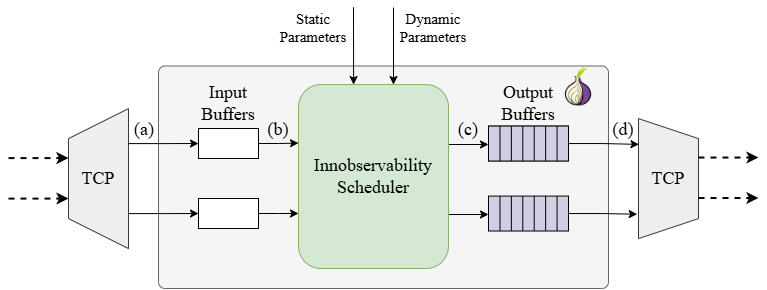
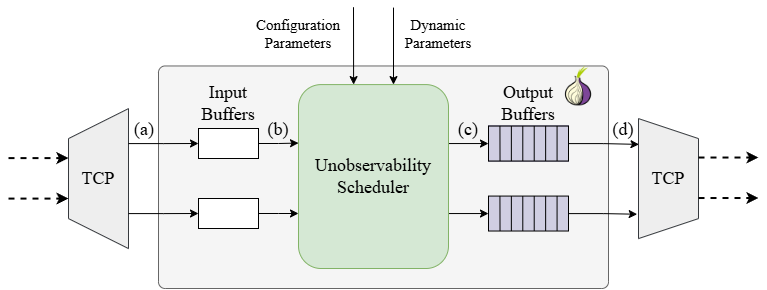
:hammer: WIP

diff --git a/Chapters/chapter3.tex b/Chapters/chapter3.tex
@@ -51,7 +51,7 @@ Our approach aims to develop a differential private mechanism, called \textit{Di
     \includegraphics[width=0.8\textwidth]{Chapters/Figures/Fig2_dp.png}
     \caption{Enhanced Tor Relay with Differential Privacy  Scheduler Component}\label{fig:our_system_model}
 \end{figure}
-Figure~\ref{fig:our_system_model} illustrates the enhanced Tor Relay internal architecture with our Innobservability Scheduler Component. This component is responsible for adding noise and control to the traffic flow, focusing on improving the circuit queue scheduler algorithm. This component has a variable levels of performance and privacy, according to the parameters set by the relay or dynamically calculated.   
+Figure~\ref{fig:our_system_model} illustrates the enhanced Tor Relay internal architecture with our Unobservability Scheduler Component. This component is responsible for adding noise and control to the traffic flow, focusing on improving the circuit queue scheduler algorithm. This component has a variable levels of performance and privacy, according to the parameters set by the relay or dynamically calculated.   
 
 \subsection{Differential Privacy Scheduler}\label{subsec:differential_privacy_approach}
 
@@ -78,38 +78,42 @@ This approach aims to improve Tor system by providing greater guarantees and for
 
 \subsection{The MIRACE Approach}\label{subsec:mirace_approach}
 
-On the other hand, we also propose another approach for the implementation of our Differential Private Component, by extending the MIRACE work. This way, we believe that merging both path splitting and differential privacy mechanisms can provide a better privacy. This work is based on another NOVA LINCS work called TorKameleon~\cite{TorKameleon}, which is developed in Go language. The MIRACE approach consists of implementing the Innobservability Scheduler Compenent in each Relay Node used in the MIRACE network. Additionally, we aim to augment the scheduler with a formal and differential private mechanisms to levarage the MIRACE multi-path algorithm. We believe that combining traffic splitting and multipath multi-encapsulation techniques from MIRACE with the differential privacy mechanisms from our work can provide a better privacy to Tor users.
+On the other hand, we also propose another approach for the implementation of our Differential Private Component, by extending the MIRACE work. This way, we believe that merging both path splitting and differential privacy mechanisms can provide a better privacy. This work is based on another NOVA LINCS work called TorKameleon~\cite{TorKameleon}, which is developed in Go language. The MIRACE approach consists of implementing the Unobservability Scheduler Compenent in each Relay Node used in the MIRACE network. Additionally, we aim to augment the scheduler with a formal and differential private mechanisms to levarage the MIRACE multi-path algorithm. We believe that combining traffic splitting and multipath multi-encapsulation techniques from MIRACE with the differential privacy mechanisms from our work can provide a better privacy to Tor users.
 This approach is the alternative to the Tor approach, considering that Tor source code may be more complex and harder to implement in the time frame of this work. On the other hand, the MIRACE approach uses Golang which is a simpler language and both MIRACE and TorKameleon authors represent a great support to our work.
 
 \section{Validation}\label{sec:validation}
 
-In order to validate our solution and present a trustworthy conclusion of wether our work is useful to the current Anonymity Networks State-of-the-Art or it can be ruled out for future work and reference, we will present two main types of validation: Performance Measurements and Innobservability Measurements. 
+The main goal of this work is to provide a viable solution to the current privacy issues in Anonymity Networks, such as Tor, by using Differntial Privacy mechanisms to provide formal privacy guarantees whilst maintaining reasonable performance levels. Using DP algorithms, we aim to provide a solution that can decrease the efficiency of orrelation attacks and website fingerprinting.
+In order to validate our solution and present a trustworthy conclusion of wether our work is useful to the current Anonymity Networks State-of-the-Art or it can be ruled out for future work and reference, we will present two main types of validation: Performance Measurements and Unobservability Measurements. To execute our validation, we will use Shadow~\cite*{Shadow, Shadow2}, which is a specific experimnetation tool that allows us to test and simulate the Tor network in a simulated environment, leading to a more controlled but easier prototype implementation and validation. 
 
-\subsection{Performance Measurements}\label{subsec:performance_measurements}
+\subsection{Unobservability Measurements}\label{subsec:unobservability_measurements}
 
-The Performance Measurements aim to provide a extensive and detailed analysis of the performance of our solution. In order to achieve this, we will consider various metrics, such as latency and throughput. We will also consider different scenarios where we can stress our solution in different ways, leading to a more detailed and broad analysis of the performance of our solution. We will have 5 main scenarios:
-\begin{itemize}
-  \item \textbf{iPerf}: This tool will be used to measure some critical metrics, such as latency and throughput, but also the jitter and packet loss that our solution may introduce.
-  \item \textbf{Web Browsing}: In this scenario, we consider that it is important to evaluate perfomnace measurements over a scenario where high performance is required, such as web browsing. This scenario will have a high number of small sized requests and responses. 
-  \item \textbf{File transfers}: This scenario will simulate the transfer of large files over the network to evaluate throughput and latency under sustained, high-bandwidth usage. It will help identify how the scheduler handles prolonged data flows and ensures privacy without significantly impacting performance.  
-  \item \textbf{Video Conference Meeting}: This scenario will test real-time communication with strict latency and jitter requirements. It will assess how the scheduler performs under conditions where low delay is crucial for maintaining audio and video quality.  
-  \item \textbf{Streaming}: Streaming scenarios will evaluate continuous data delivery performance, focusing on how well the scheduler maintains a balance between bandwidth usage and differential privacy guarantees, especially under varying network conditions and sustained traffic.
-\end{itemize}
-
-With these scenarios and metrics, we believe that we can provide a comprehensive analysis of the performance of our solution, which will help us to understand the trade-offs between privacy and performance. The aim is to demosntrate that our solution can provide a reasonable level of privacy without significantly impacting the performance.
-
-\subsection{Innobservability Measurements}\label{subsec:innobservability_measurements}
-
+Unobservability is the main goal of our work. We aim to prove that Differential Privacy mechanisms can provide strong privacy guarantees and that its a real-world solution
 Even though performance is a critical measurement, we believe that the privacy guarantees are the most important aspect of our solution. To do so, we will consider Website Fingerprinting as the main attacker technique over our system. To provide strong evidence of the privacy guarantees of our solution, we will consider the following machine-learning models for website fingerprinting:
 \begin{itemize}
-  \item Attack 1
-  \item Attack 2
-  \item TPR
+  \item DeppCoFFEA
+  \item TorMarker
+  \item TirDeanon
   \item TNR
 \end{itemize}
 
 In addition, we want to formally prove the differential private mechanisms that we aim to provide
 
+
+\subsection{Performance Measurements}\label{subsec:performance_measurements}
+
+Even though the main goal of our work focus on privacy and the effectiveness of Differential Privacy, we consider performance to be the key to the success of our solution, which can be the difference between a viable solution, useful in real-world applications, and a theoretical solution which works but does not provide a real-world application due to low performance.
+This way, the Performance Measurements aim to provide a extensive and detailed analysis of the performance of our solution. In order to achieve this, we will consider various metrics, such as latency and throughput. We will also consider different scenarios where we can stress our solution in different ways, leading to a more detailed and broad analysis of the performance of our solution. We will have 5 main scenarios:
+\begin{itemize}
+  \item\textbf{iPerf:} This tool will be used to measure some critical metrics, such as latency and throughput, but also the jitter and packet loss that our solution may introduce.
+  \item\textbf{Web Browsing: } In this scenario, we consider that it is important to evaluate perfomnace measurements over a scenario where high performance is required, such as web browsing. This scenario will have a high number of small sized requests and responses. 
+  \item\textbf{File transfers: } This scenario will simulate the transfer of large files over the network to evaluate throughput and latency under sustained, high-bandwidth usage. It will help identify how the scheduler handles prolonged data flows and ensures privacy without significantly impacting performance.  
+  \item\textbf{Video Conference Meeting: } This scenario will test real-time communication with strict latency and jitter requirements. It will assess how the scheduler performs under conditions where low delay is crucial for maintaining audio and video quality.  
+  \item\textbf{Streaming: } Streaming scenarios will evaluate continuous data delivery performance, focusing on how well the scheduler maintains a balance between bandwidth usage and differential privacy guarantees, especially under varying network conditions and sustained traffic.
+\end{itemize}
+
+With these scenarios and metrics, we believe that we can provide a comprehensive analysis of the performance of our solution, which will help us to understand the trade-offs between privacy and performance. The aim is to demosntrate that our solution can provide a reasonable level of privacy without significantly impacting the performance.
+
 \section{Summary}\label{sec:elaboration_summary}
 
-We propose to implement a Innobservability Scheduler Component, based on the Tor Scheduler and considering some implementations over it, like KIST and EWMA, but aiming to provide greater and better privacy guarantees to users. By providing a formal and differential private mechanism over Relay Nodes, we intend to protect the privacy of users, whilst maintaining feasable performance levels. We will consider two main approaches from the start: the Tor Approach and the MIRACE Approach. The Tor Approach consists of extending the Tor Scheduler with our Differential Privacy Scheduler Component, whilst the MIRACE Approach consists of extending the MIRACE Relay Nodes with our Differential Privacy Scheduler Component. To validate the solution, we will consider two types of measurements: Performance and Innobservability. The Performance Measurements aim to provide a comprehensive analysis of the performance of our solution, considering different scenarios and metrics, such as latency and throughput. The Innobservability Measurements aim to provide a comprehensive analysis of the privacy guarantees of our solution, considering different scenarios and metrics, such as website fingerprinting and correlation attacks. We believe that by providing a comprehensive analysis of the performance and privacy guarantees of our solution, we can demonstrate that our solution can provide a reasonable level of privacy without significantly impacting the performance.
+We propose to implement a Unobservability Scheduler Component, based on the Tor Scheduler and considering some implementations over it, like KIST and EWMA, but aiming to provide greater and better privacy guarantees to users. By providing a formal and differential private mechanism over Relay Nodes, we intend to protect the privacy of users, whilst maintaining feasable performance levels. We will consider two main approaches from the start: the Tor Approach and the MIRACE Approach. The Tor Approach consists of extending the Tor Scheduler with our Differential Privacy Scheduler Component, whilst the MIRACE Approach consists of extending the MIRACE Relay Nodes with our Differential Privacy Scheduler Component. To validate the solution, we will consider two types of measurements: Performance and Unobservability. The Performance Measurements aim to provide a comprehensive analysis of the performance of our solution, considering different scenarios and metrics, such as latency and throughput. The Unobservability Measurements aim to provide a comprehensive analysis of the privacy guarantees of our solution, considering different scenarios and metrics, such as website fingerprinting and correlation attacks. We believe that by providing a comprehensive analysis of the performance and privacy guarantees of our solution, we can demonstrate that our solution can provide a reasonable level of privacy without significantly impacting the performance.

diff --git a/Chapters/chapter4.tex b/Chapters/chapter4.tex
@@ -8,5 +8,28 @@
 
 \typeout{NT FILE chapter4.tex}%
 
-\chapter{Workplan}
-\label{cha:workplan}
+\chapter{Workplan}\label{cha:workplan}
+
+To provide a clear overwiew of thr workplan, we create a Gantt chart, displayed in Figure \ref{fig:gantt}, and a table with the tasks and their respective description and tasks dependency. Our workplan is desing for an estimated effort similar to the compleplated work for a Master Thesis, corresponding to 30 ECTS, meaning that we plan to spend 840 hours of work (30 ECTS * 28 hours/ECTS), for which we account for the possibility of a margin of error of 10\% in the total time. 
+
+\section{Protopype Development}
+To mitigate the risk of not being able to complete the work in the estimated time, we divided our solution into phases:
+\begin{itemize}
+    \item \textbf{Phase 1:} Firsly, we will implement the prototype of the \textit{Unobservability Scheduler} with basic functionalities and a randomized response-based mechanisms. In this phase, we prosume to spend a reasonable amount of time setting up and understading Tor's or MIRACE's codebase, depending on the approach we take. With this basic differntial private scheduler, we will already be able to test the basic functionalities of the system, and we will be able to evaluate the performance of the system in terms of privacy and utility. We also want to provide detailed evidence of the impact of each parameter. This way, this prototype will work as reference of the system's performance and will be used to compare with the final version of the system. Therefore, we will have to develop our benchmarking tools and extract data from this prototype.
+    \item \textbf{Phase 2:} In this phase, we will extend Phase 1 Protopype and add all necessary parameters. We will start by implementing the static paramenters, as we consider to be easier to implement and less probable to generate unexpected results, due to its static nature. After that, we will implement the dynamic parameters, which will require more time to implement and test. We will also implement the benchmarking tools and extract data from this prototype. Finally, we will compare the results of the two prototypes and evaluate the impact of each parameter in the system's performance and what values do we consider to be the best for each parameter.
+\end{itemize}
+
+Upon completing these development phases, particular elements of the solution will be subject to thorough analysis and meticulous implementation:
+\begin{itemize}
+    \item \textbf{Differential Privacy: } The main focus of this work is to provide a solution that is able to provide formal privacy guarantees to anonymization network's users. Formal privacy guarantees are a important aspect of our system, as it will provide a clear understanding of the privacy guarantees that users have when using our system. Therefore, we will have to implement the differential privacy mechanisms and evaluate its impact in the system's performance.
+    \item \textbf{Flexible Configuration \& Parameterization: } Another important aspect of the work we want to develop is the ability to provide flexible behaviour to the system. This flexibility can be divided into two main subjects: the users, and the correspondent needs and preferences, are one source of flexibility and we consider important to provide a system that can be easily configured by the user and fit his needs. On the other hand, the system itself should be able to adapt to the real-time conditions that it is subject to. For example, the system should be able to adapt to the network's jitter and latency, and adapt the noise added to the messages accordingly, by modifying the privacy parameters. Therefore, our system will have a flexible configuration and parameterization, and a vast number of parameters lead to a vast range of tests that we will have to perform.  
+\end{itemize}
+
+
+
+\begin{figure}
+    \centering
+    \includegraphics[width=\textwidth]{Chapters/Figures/Gantt.png}
+    \caption{Gantt chart of the workplan}
+    \label{fig:gantt}
+\end{figure}

diff --git a/Config/3_cover.tex b/Config/3_cover.tex
@@ -19,11 +19,11 @@
 %                                 (if omitted defaults to main title without line breaks)
 %-------------------------------------------------------------------
 %         You may use "\\" to force line breaks
-\nttitle(main,en){Use of Differential Privacy for Unobservable Privacy-Preserved Communication}%
+\nttitle(main,en){The Unobservability Scheduler}%
 \nttitle(main,pt){Um Título de Tese Longo\\e com uma Mudança de Linha Forçada}%
 
 %         You may use "\\" to force line breaks
-\nttitle(sub,en){Some thoughts on the Life, the Universe,\\and Everything Else}%
+\nttitle(sub,en){Use of Differential Privacy for Unobservable Privacy-Preserved Communication}%
 \nttitle(sub,pt){Algumas considerações sobre a Vida,\\o Universo e Tudo o Mais}%
 
 %         You may NOT use "\\" to force line breaks
@@ -92,7 +92,7 @@
 % AUTHOR previous degree
 % SYNTAX: \ntauthordegree{degree}
 %-------------------------------------------------------------------
-\ntauthordegree(en){Master in Software Engineering Degree}
+\ntauthordegree(en){BSc in Software Engineering Degree}
 \ntauthordegree(pt){Mestrado Integrado em Engenharia Informática}
 
 %-------------------------------------------------------------------
@@ -117,8 +117,8 @@
 % Advisers(s)
 \ntaddperson{adviser}(a,m){Henrique João, Full Professor, NOVA University Lisbon}
 % Co-advisers(s)
-\ntaddperson{adviser}(c,m){João Vilalonga, Associate Professor, NOVA University Lisbon}
-\ntaddperson{adviser}(c,f){John Doe other Co-Adviser Name, Full Professor, NOVA University Lisbon}
+\ntaddperson{adviser}(c,m){João Vilalonga, Ph.D Student, NOVA University Lisbon}
+\ntaddperson{adviser}(c,m){Hugo Pereira, Ph.D Student, NOVA University Lisbon}
 
 %-------------------------------------------------------------------
 % COMMITTEE MEMBERS
